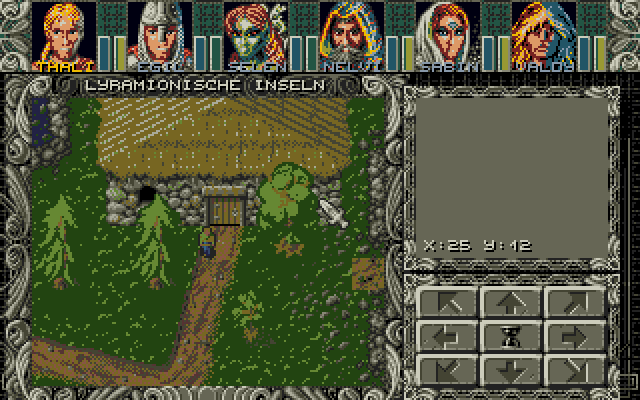
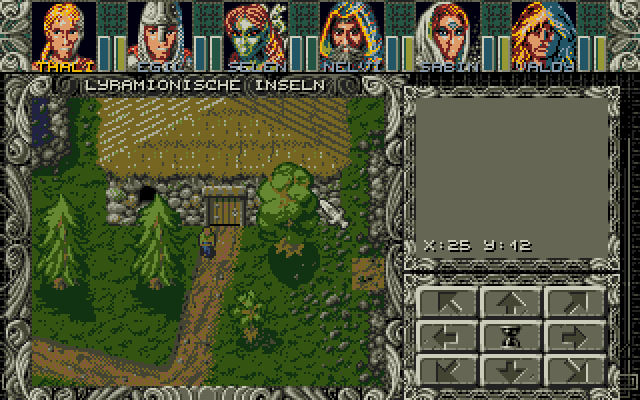
ST converter: one more free colour in the map palettes
In the map area colour 24 is not needed by the UI any more (value 0 of the
layout and the buttons is drawn black), so slot 8 is a free colour too.
The world map gets 8 instead of 7 free colours: trees, shadows and grass
can be told apart again.

Claude-Session: https://claude.ai/code/session_017KUb8qa9fSBV81xJQCbgWy

diff --git a/AmbermoonST/tools/st_convert.py b/AmbermoonST/tools/st_convert.py
@@ -10,6 +10,8 @@
 #   slot 0        : colour 0 (black, transparent for masked graphics)
 #   slots 1..7    : 7 colours chosen by a weighted k-means for the graphics of the area (map tiles, portraits)
 #   slots 8..15   : colours 24..31 (the UI colours: layouts, status block and all 3 bit graphics use them)
+#                   In the map area slot 8 (colour 24) is another free colour, because value 0 of the layout and
+#                   the buttons is drawn black there.
 # So 3 bit graphics with base colour 24 look the same in both areas, and every Amiga colour of an area is
 # translated with a lookup table of 32 bytes (written to the palette files, used by the kernel for Draw_box
 # and the text colours).
@@ -164,22 +166,24 @@ def st_graphic(pix, w, h):
     return bytes(out)
 
 
-def make_palette(palette, weights):
+def make_palette(palette, weights, ui_first=24):
     """16 colour palette with the slot layout described above. palette: 32 rgb, weights: 32 values.
+    ui_first: first UI colour which gets a fixed slot (8 + colour - 24). In the map area colour 24 is not needed
+    by the UI (value 0 of the layout and the buttons is drawn black), so slot 8 is another free slot there.
     Returns (16 rgb, lookup table of 32 slots)."""
-    ui = palette[24:32]
-    points = palette[1:24]
-    w = [math.sqrt(x) for x in weights[1:24]]
-    # k-means with the UI colours fixed: result = 8 UI colours + 7 free colours
+    ui = palette[ui_first:32]
+    points = palette[1:ui_first]
+    w = [math.sqrt(x) for x in weights[1:ui_first]]
+    # k-means with the UI colours fixed
     result = kmeans(points, w, ui, 15, 4)
-    free = result[8:]
+    free = result[len(ui):]
     pal16 = [snap(palette[0], 4)] + free + [snap(c, 4) for c in ui]
     labs = [to_lab(c) for c in pal16]
     lut = []
     for i in range(32):
         if i == 0:
             lut.append(0)
-        elif i >= 24:
+        elif i >= ui_first:
             lut.append(8 + i - 24)
         else:            # never slot 0: it is transparent
             li = to_lab(palette[i])
@@ -205,7 +209,7 @@ def sprite_lut(palette, pal16):
     for i in range(32):
         if i == 0:
             lut.append(0)
-        elif i >= 24:
+        elif i >= 25:
             lut.append(8 + i - 24)
         else:
             li = to_lab(palette[i])
@@ -293,7 +297,7 @@ def main():
         for frame in sprites:
             for v in frame:
                 weights[v] += 16       # small but important
-        map16, map_lut = make_palette(map_pal, weights)
+        map16, map_lut = make_palette(map_pal, weights, 25)
         spr_lut = sprite_lut(map_pal, map16)
         write(f'P{tileset}.BIN', palette_file(map16, map_lut))
         write(f'I{tileset}.BIN', b''.join(st_graphic([map_lut[v] for v in t], 16, 16) for t in tiles))
